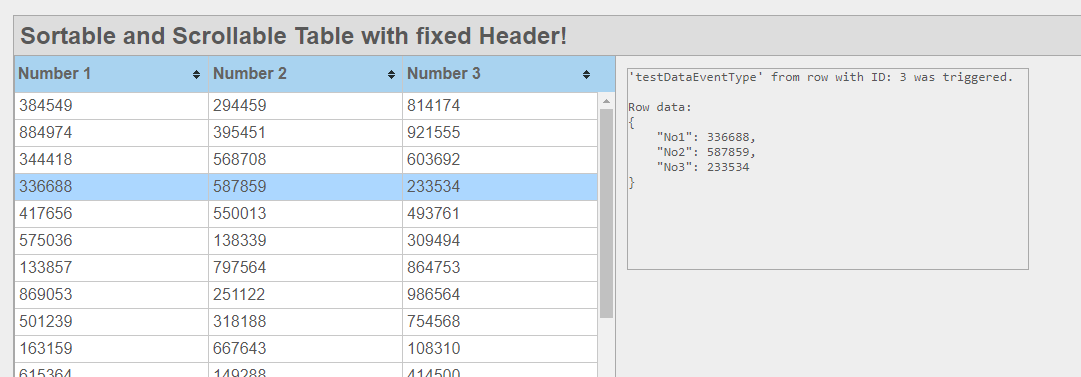
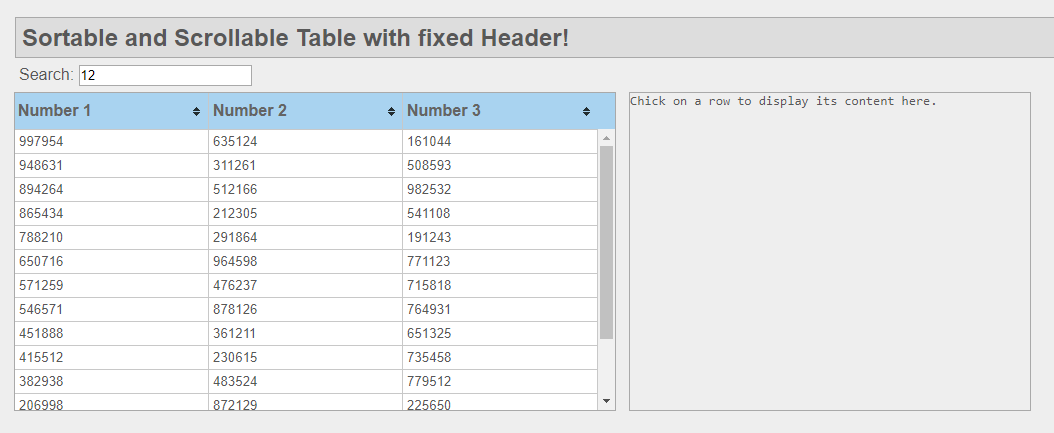
table height fiexed and pics added

Changed region(s): [[0.0, 0.1459, 0.9715, 1.0], [0.0, 0.0584, 0.5465, 0.1167]]

diff --git a/treeTable.html b/treeTable.html
@@ -84,7 +84,7 @@
             var scrollableTable = new scrollableTable('scrollableTable', 'wrapper')
             scrollableTable.setTableHeader(["Name", "Id", "Value"])
             scrollableTable.setTableContent(testData, "testDataEventType", ["name", "id","value"], "subtree")
-            scrollableTable.setTableHeight( () => { return $( window ).height() - 118 -30 } )
+            scrollableTable.setTableHeight( () => { return $( window ).height() - 166 } )
             // or e.g.: scrollableTable.setTableHeight(500)
             scrollableTable.expandTree()
             scrollableTable.sortByColumnName("Name")

diff --git a/index.html b/index.html
@@ -30,7 +30,7 @@
             var scrollableTable = new scrollableTable('scrollableTable', 'wrapper')
             scrollableTable.setTableHeader(["Number 1", "Number 2", "Number 3"])
             scrollableTable.setTableContent(testData, "testDataEventType", ["No1", "No2", "No3"])
-            scrollableTable.setTableHeight( () => { return $( window ).height() - 118 } )
+            scrollableTable.setTableHeight( () => { return $( window ).height() - 166 } )
             // or e.g.: scrollableTable.setTableHeight(500)
 
             /** Event processing */
